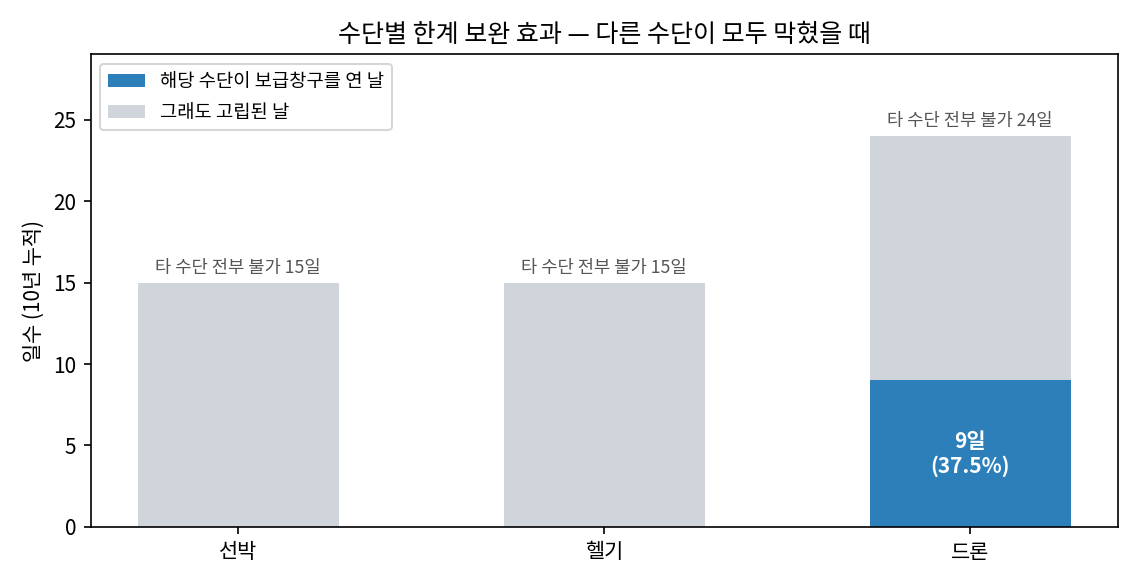
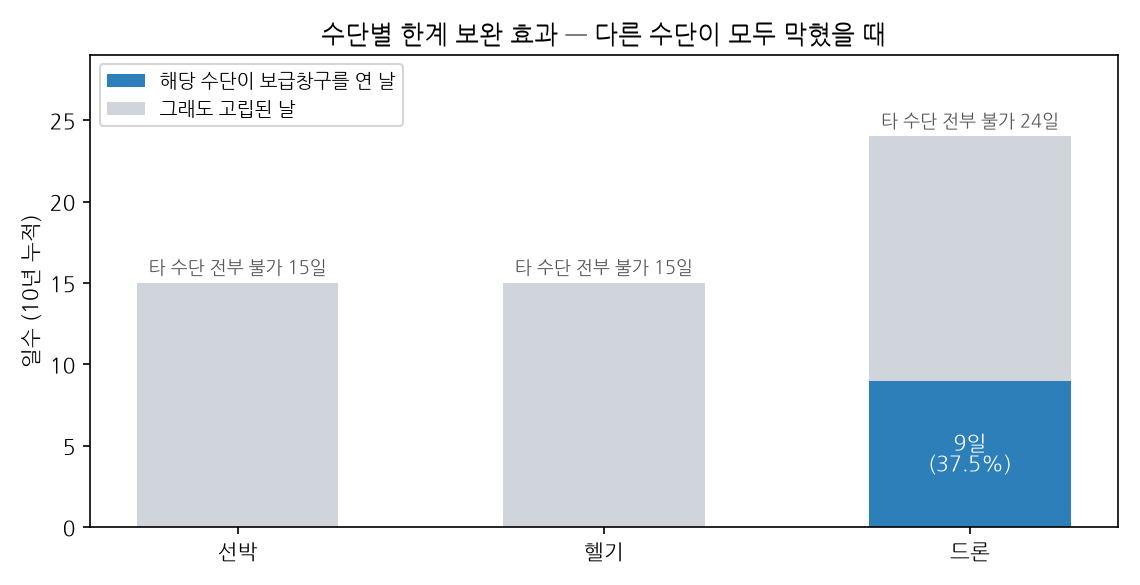
Wire marginal_contribution into the pipeline and fix its Korean particles
The merged commit added marginal_contribution() and plot_marginal_contribution()
but nothing called either, so figure 08 and the analysis behind it could not be
regenerated from the shipped code.

- run_analysis.py: call marginal_contribution in stage 4, print each mode's
  contribution, render figure 08, and record the result in
  analysis_report.json under 한계기여도.
- src/inference.py: the 해석 strings appended subject particles unconditionally,
  producing "드론가" and "선박은(는)". Added _josa() to pick 이/가 and 은/는 by
  whether the preceding syllable has a final consonant. This text reaches
  analysis_report.json and the proposal, so the errors were reader-visible.
- README.md: list figure 08.

Result on the real data: drones open a supply window on 9 of the 24 days when
ship and helicopter are both unavailable (37.5%), cutting isolation days from
24 to 15. Ship and helicopter each contribute 0% by the same measure.

Verified: 8/8 tests pass; pipeline runs with zero font warnings; figure 08
renders correctly; npm run build:proposal produces the docx including figure 08.

Claude-Session: https://claude.ai/code/session_01TUhzmaonuWtgKh81vCPmBA

diff --git a/run_analysis.py b/run_analysis.py
@@ -28,11 +28,12 @@ from src.visualize import (
     plot_monthly_heatmap, plot_annual_isolation_trend,
     plot_isolation_calendar, plot_limiting_factor_breakdown,
     plot_sensitivity, plot_return_level, plot_terrain_sensitivity,
+    plot_marginal_contribution,
 )
 from src.inference import (
     isolation_persistence, event_frequency_model, return_level_analysis,
     return_level_ci, bootstrap_percentile_ci, mann_kendall_trend,
-    mode_dependence, terrain_representativeness,
+    mode_dependence, terrain_representativeness, marginal_contribution,
 )
 from src.sensitivity import run_sensitivity, run_threshold_sweep
 
@@ -148,6 +149,7 @@ def main():
         trend = mann_kendall_trend(daily)
         dep = mode_dependence(daily)
         terrain = terrain_representativeness(raw)
+        marginal = marginal_contribution(daily)
 
         print(f"      지속확률 p = {persistence['지속확률_p']}")
         print(f"      λ(연평균 사건수) = {freq_model['λ_연평균사건수']}, "
@@ -158,6 +160,10 @@ def main():
             print(f"      {returns_ci['재현기간_년']}년 재현수준 신뢰구간: "
                   f"{returns_ci['점추정']}일 {returns_ci['95%_신뢰구간']}")
         print(f"      Mann-Kendall 추세 p값 = {trend['p값']}")
+        for _m, _v in marginal.items():
+            if _v["기여율"] is not None:
+                print(f"      {_m} 한계기여율 = {_v['기여율']}% "
+                      f"(타수단 전부불가 {_v['타수단_전부불가일']}일 중 {_v['해당수단_가용일']}일)")
 
         print("\n[5/5] 5단계 — 민감도 분석(Sensitivity) 계산 중...")
         sens = run_sensitivity(raw)
@@ -166,7 +172,8 @@ def main():
         print("      [그래프] 05~07 생성 중...")
         for f in (plot_sensitivity(sens),
                   plot_return_level(returns, safety["권고_안전재고_일수"]),
-                  plot_terrain_sensitivity(terrain)):
+                  plot_terrain_sensitivity(terrain),
+                  plot_marginal_contribution(marginal)):
             print(f"      저장됨: {f}")
 
         dep.to_csv(out_dir / "mode_dependence.csv", index=False, encoding="utf-8-sig")
@@ -181,6 +188,7 @@ def main():
             "재현수준_신뢰구간": returns_ci,
             "부트스트랩_신뢰구간": boot,
             "추세검정_MannKendall": trend,
+            "한계기여도": marginal,
         }
 
     report = {

diff --git a/src/inference.py b/src/inference.py
@@ -404,6 +404,16 @@ def return_level_ci(daily_df: pd.DataFrame, target_period: int = 20,
 # ────────────────────────────────────────────────────────────
 # 9. 수단별 한계 보완 효과 (정책적으로 올바른 방향의 상보성)
 # ────────────────────────────────────────────────────────────
+def _josa(word: str, with_batchim: str, without_batchim: str) -> str:
+    """한글 받침 유무에 따라 조사를 고른다 (예: 드론+이 / 헬기+가)."""
+    if not word:
+        return without_batchim
+    last = word[-1]
+    if not ("가" <= last <= "힣"):
+        return without_batchim
+    return with_batchim if (ord(last) - 0xAC00) % 28 else without_batchim
+
+
 def marginal_contribution(daily_df: pd.DataFrame) -> dict:
     """
     각 수단이 '다른 수단들이 모두 막힌 상황'에서 보급 창구를 얼마나 열어주는지 측정.
@@ -439,8 +449,9 @@ def marginal_contribution(daily_df: pd.DataFrame) -> dict:
             "기여율": round(rescued / n_others_bad * 100, 1),
             "잔여고립일": remaining,
             "해석": (
-                f"{'·'.join(others)}가 모두 막힌 {n_others_bad}일 중 "
-                f"{target}은(는) {rescued}일({rescued/n_others_bad*100:.1f}%)에서 운용 가능하였다. "
+                f"{'·'.join(others)}{_josa('·'.join(others), '이', '가')} 모두 막힌 "
+                f"{n_others_bad}일 중 {target}{_josa(target, '은', '는')} "
+                f"{rescued}일({rescued/n_others_bad*100:.1f}%)에서 운용 가능하였다. "
                 f"{target} 부재 시 고립일은 {n_others_bad}일이나, 포함 시 {remaining}일로 감소한다."
             ),
         }

diff --git a/README.md b/README.md
@@ -72,7 +72,8 @@ outputs/
 │   ├── 04_limiting_factor_breakdown.png      불가 원인 분해 (풍속/시정/강수)
 │   ├── 05_sensitivity_analysis.png           기준값 변경 시나리오
 │   ├── 06_return_level.png                   재현기간별 고립 수준
-│   └── 07_terrain_sensitivity.png            관측소-부대 간 풍속 차이 가정
+│   ├── 07_terrain_sensitivity.png            관측소-부대 간 풍속 차이 가정
+│   └── 08_marginal_contribution.png          수단별 한계 보완 효과
 ├── analysis_report.json      핵심 수치 요약 (권고 안전재고 · 산정근거)
 ├── daily_operability.csv     일자별 수단별 운용가능 여부 (원자료)
 ├── annual_availability.csv   연도별 가용률
